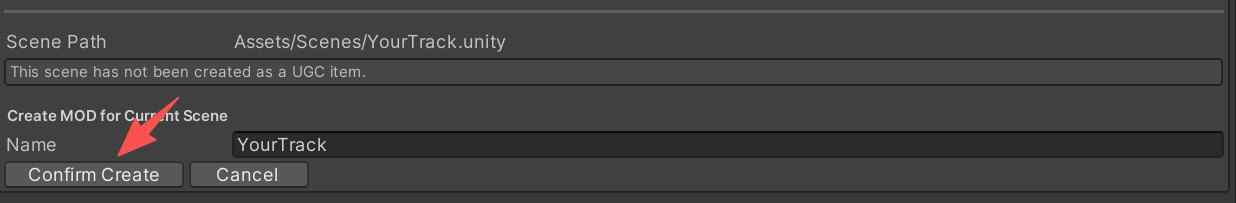
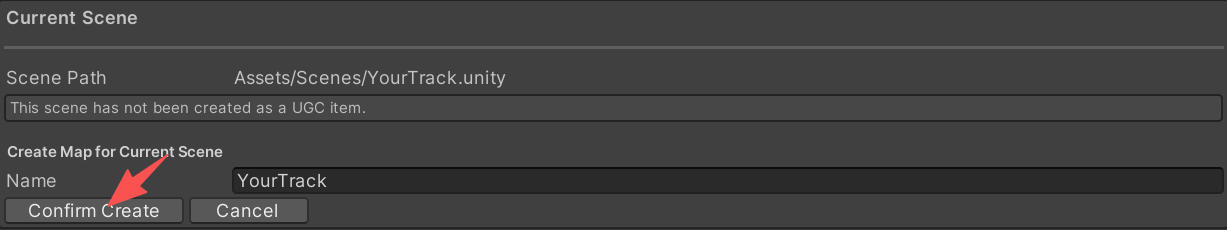
tutorials polished 2

Changed region(s): [[0.0, 0.0, 1.0, 0.9754]]

diff --git a/Assets/Scripts/Editor/UGCManagerWindow.cs b/Assets/Scripts/Editor/UGCManagerWindow.cs
@@ -271,7 +271,7 @@ namespace FRLMapMod.Editor
 
                 if (!_showCreateModForCurrentScene)
                 {
-                    if (GUILayout.Button("Create MOD", GUILayout.Width(120)))
+                    if (GUILayout.Button("Create New Map", GUILayout.Width(120)))
                     {
                         _showCreateModForCurrentScene = true;
                         _newModNameForCurrentScene = activeScene.name;
@@ -437,7 +437,7 @@ namespace FRLMapMod.Editor
             EnsureService();
 
             EditorGUILayout.Space();
-            EditorGUILayout.LabelField("Create MOD for Current Scene", EditorStyles.miniBoldLabel);
+            EditorGUILayout.LabelField("Create Map for Current Scene", EditorStyles.miniBoldLabel);
 
             _newModNameForCurrentScene = EditorGUILayout.TextField("Name", _newModNameForCurrentScene);
 
@@ -446,7 +446,7 @@ namespace FRLMapMod.Editor
             {
                 
                 EditorUtility.DisplayProgressBar(
-                    "Create MOD",
+                    "Create New Map",
                     $"Creating '{_newModNameForCurrentScene}'...",
                     0.5f);
                 _service.CreateItemOnServerForScene(scenePath, _newModNameForCurrentScene, createdItem =>
@@ -544,7 +544,7 @@ namespace FRLMapMod.Editor
                         "Open Scene",
                         $"Scene file not found:\n{scenePath}\n\n" +
                         "This scene might have been moved or deleted.\n" +
-                        "Do you want to retarget this MOD to another scene?",
+                        "Do you want to retarget this map to another scene?",
                         "Retarget", "Cancel");
 
                     if (retarget)

diff --git a/README.md b/README.md
@@ -47,6 +47,8 @@ Once the build and upload process is complete, return to the manager window and 
 ![Step 5 - Publish Track](/docs/images/publish.jpg)
 
 After publishing, the track will enter the review process and await approval by the FR Legends team.
+> You may delete a map at any time if it has not been published or is not currently under review. For published maps, you must contact the FR Legends team to request removal.
+
 
 ---
 
